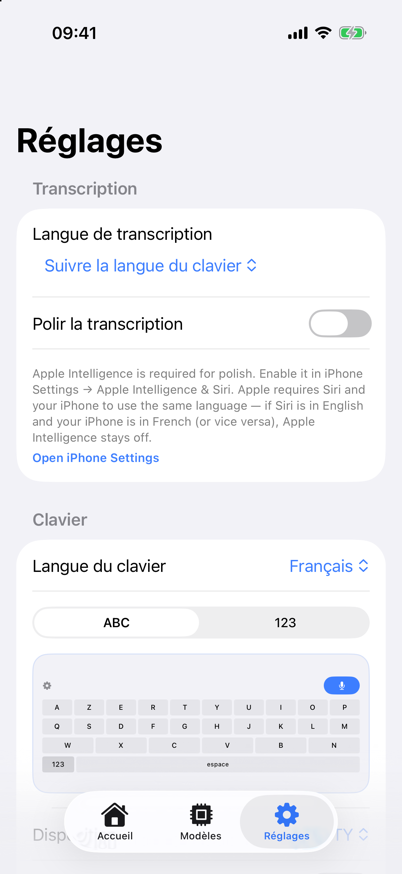
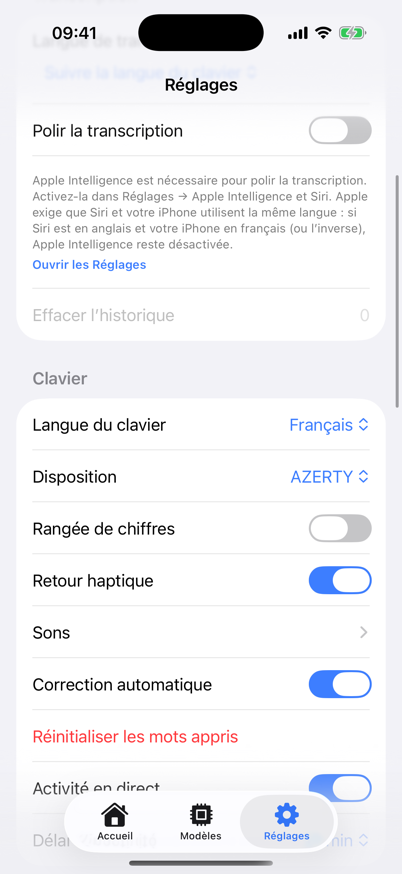
Retire keyboard.default-page in the feature map, add #888 evidence (refs #888)
The ID stays, marked retired. app.settings is re-captured without the
ABC / 123 picker. Evidence: Réglages → Clavier in French and English,
and the App Group keys cleared on launch.

diff --git a/.claude/skills/verify-dictus-ios/features/keyboard.languages.md b/.claude/skills/verify-dictus-ios/features/keyboard.languages.md
@@ -10,7 +10,7 @@
 - `keyboard.language-switch`: Français, English, Español, Deutsch, switched from the keyboard panel (☰ held).
 - `keyboard.layout`: AZERTY / QWERTY / QWERTZ per language.
 - `keyboard.number-row`: « Rangée de chiffres » above the letters.
-- `keyboard.default-page`: Default page ABC or 123.
+- `keyboard.default-page`: **retired (#888).** Was the « Page par défaut » ABC / 123 choice in Réglages; the setting is gone and the keyboard always opens on the letters. The ID stays retired, never reused.
 - `keyboard.transcription-language`: Transcription language: « Suivre la langue du clavier » or fixed.
 - `keyboard.open-app`: The panel's gear opens Dictus.
 

diff --git a/.claude/skills/verify-dictus-ios/features/README.md b/.claude/skills/verify-dictus-ios/features/README.md
@@ -130,7 +130,7 @@ Every ID in this map, in one table: the 18 features first, then their 117 sub-fe
 | `keyboard.language-switch` | Gratuit | non |
 | `keyboard.layout` | Gratuit | non |
 | `keyboard.number-row` | Gratuit | non |
-| `keyboard.default-page` | Gratuit | non |
+| `keyboard.default-page` (retired, #888) | Gratuit | non |
 | `keyboard.transcription-language` | Gratuit | non |
 | `keyboard.open-app` | Gratuit | non |
 | `emoji.picker` | Gratuit | non |
